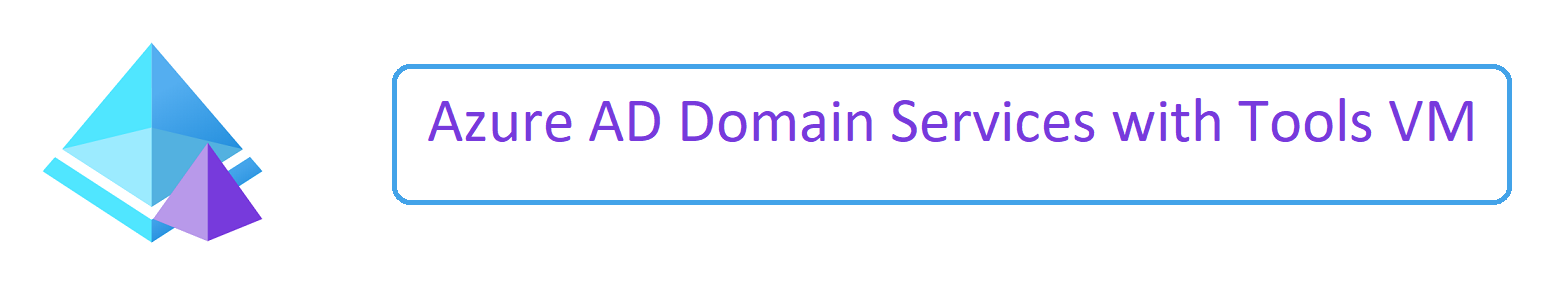
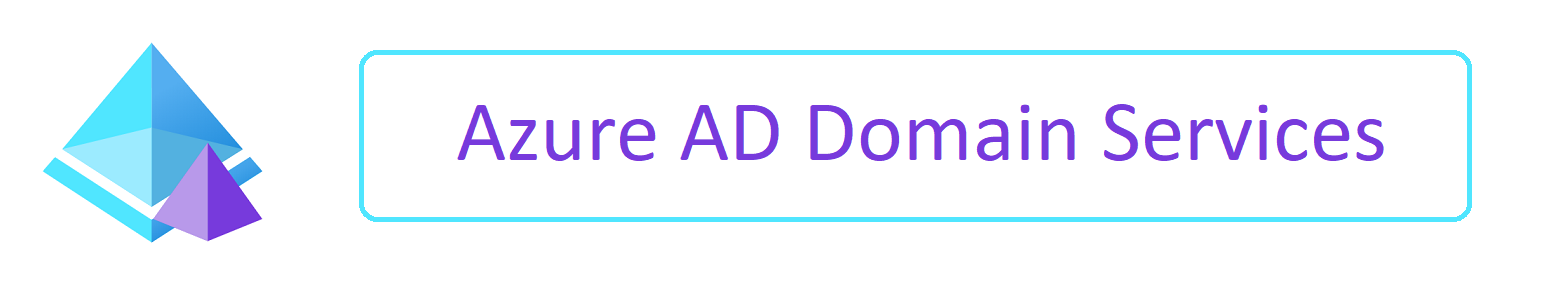
New Structure

Changed region(s): [[0.2151, 0.1702, 0.9834, 0.7943]]

diff --git a/README.md b/README.md
@@ -26,6 +26,13 @@ Click the button below to deploy
 [![Deploy To Azure](https://raw.githubusercontent.com/Azure/azure-quickstart-templates/master/1-CONTRIBUTION-GUIDE/images/deploytoazure.svg?sanitize=true)](https://portal.azure.com/#create/Microsoft.Template/uri/https%3A%2F%2Fraw.githubusercontent.com%2Felliottfieldsjr%2FKillerHomeLab-ARM%2Fcomingsoon%2FDeployments%2FDeploy-AzureAD-DomainServices.json)
 [![Deploy To Azure US Gov](https://raw.githubusercontent.com/Azure/azure-quickstart-templates/master/1-CONTRIBUTION-GUIDE/images/deploytoazuregov.svg?sanitize=true)](https://portal.azure.us/#create/Microsoft.Template/uri/https%3A%2F%2Fraw.githubusercontent.com%2Felliottfieldsjr%2FKillerHomeLab-ARM%2Fcomingsoon%2FDeployments%2FDeploy-AzureAD-DomainServices.json)
 
+# [Azure AD Domain Services Tools VM- ReadMe](https://github.com/elliottfieldsjr/KillerHomeLab-ARM/blob/comingsoon/Deployments/Deploy-AzureAD-DomainServices-ToolsVM.md)
+<img src="Deployments/x_Images/AzureADDomainServicesToolsVM.png" alt="Azure AD Domain Services Tools VM" width="150">
+Click the button below to deploy
+
+[![Deploy To Azure](https://raw.githubusercontent.com/Azure/azure-quickstart-templates/master/1-CONTRIBUTION-GUIDE/images/deploytoazure.svg?sanitize=true)](https://portal.azure.com/#create/Microsoft.Template/uri/https%3A%2F%2Fraw.githubusercontent.com%2Felliottfieldsjr%2FKillerHomeLab-ARM%2Fcomingsoon%2FDeployments%2FDeploy-AzureAD-DomainServices-ToolsVM.json)
+[![Deploy To Azure US Gov](https://raw.githubusercontent.com/Azure/azure-quickstart-templates/master/1-CONTRIBUTION-GUIDE/images/deploytoazuregov.svg?sanitize=true)](https://portal.azure.us/#create/Microsoft.Template/uri/https%3A%2F%2Fraw.githubusercontent.com%2Felliottfieldsjr%2FKillerHomeLab-ARM%2Fcomingsoon%2FDeployments%2FDeploy-AzureAD-DomainServices-ToolsVM.json)
+
 # [Azure DevOps Server 2022 with Azure SQL - ReadMe](https://github.com/elliottfieldsjr/KillerHomeLab-ARM/blob/main/Deployments/Deploy-DevOpsServer-2022-with-AzureSQL.md)
 <img src="Deployments/x_Images/AzureDevOpsServerwithAzureSQL.png" alt="Azure DevOps Server" width="150">
 Click the button below to deploy

diff --git a/Deployments/Deploy-AzureAD-DomainServices-ToolsVM.md b/Deployments/Deploy-AzureAD-DomainServices-ToolsVM.md
@@ -1,12 +1,10 @@
-# Deploy Azure AD Domain Services with Tools VM
-<img src="./x_Images/AzureADDomainServices.svg" height="600" width="800"/>
+# Deploy Azure AD Domain Services Tools VM
+<img src="./x_Images/AzureADDomainServicesToolsVM.svg" height="600" width="800"/>
 
 This Deployment deploys the following items:
 
 - 1 - Azure KeyVault with Secret contianing Deployment Password
-- 1 - Virtual Network
-- 1 - Network Security Group
-- 1 - Azure AD Domain Services Instance
+- 1 - Bastion Host
 - 1 - Azure AD Domain Services Domain-Joined Server Tools VM (RSAT: AD & DNS)
 
 All Virtual Machines can be accessed via the [Bastion Host](https://docs.microsoft.com/en-us/azure/bastion/bastion-overview) that was deployed by using the Username and Password provided during depoyment.  The password can be manually entered or retrieved from the KeyVault that is creatd during deployment.
@@ -23,7 +21,6 @@ Parameters that support changes
 - AutoShutdownEnabled.  Yes = AutoShutdown Enabled, No = AutoShutdown Disabled.
 - AutoShutdownTime.  24-Hour Clock Time for Auto-Shutdown (Example: 1900 = 7PM)
 - AutoShutdownEmail.  Auto-Shutdown notification Email (Example:  user@domain.com)
-- AzureADDomainServicesSku.  Select Standard, Enterprise or Premium Sku
 - Azure UserObject ID.  Object ID for the Azure Using running the deployment
 - Admin Username.  Enter a valid Admin Username
 - Admin Password.  Enter a valid Admin Password
